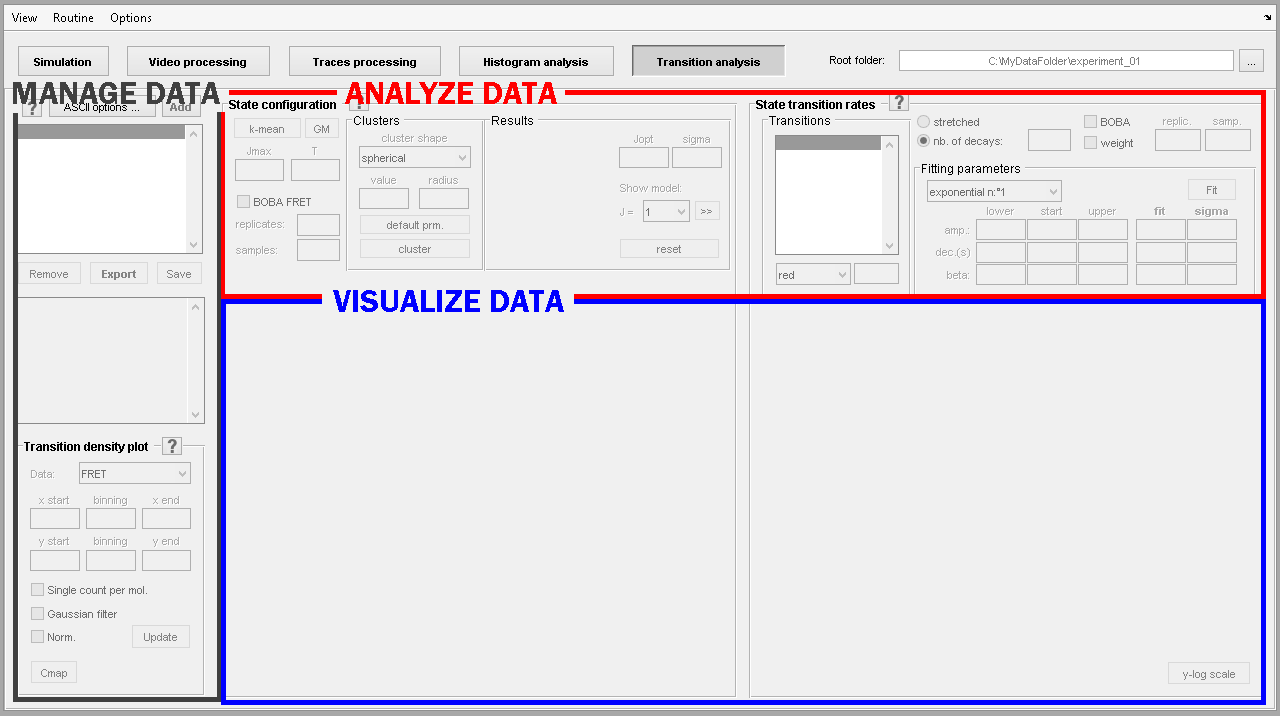
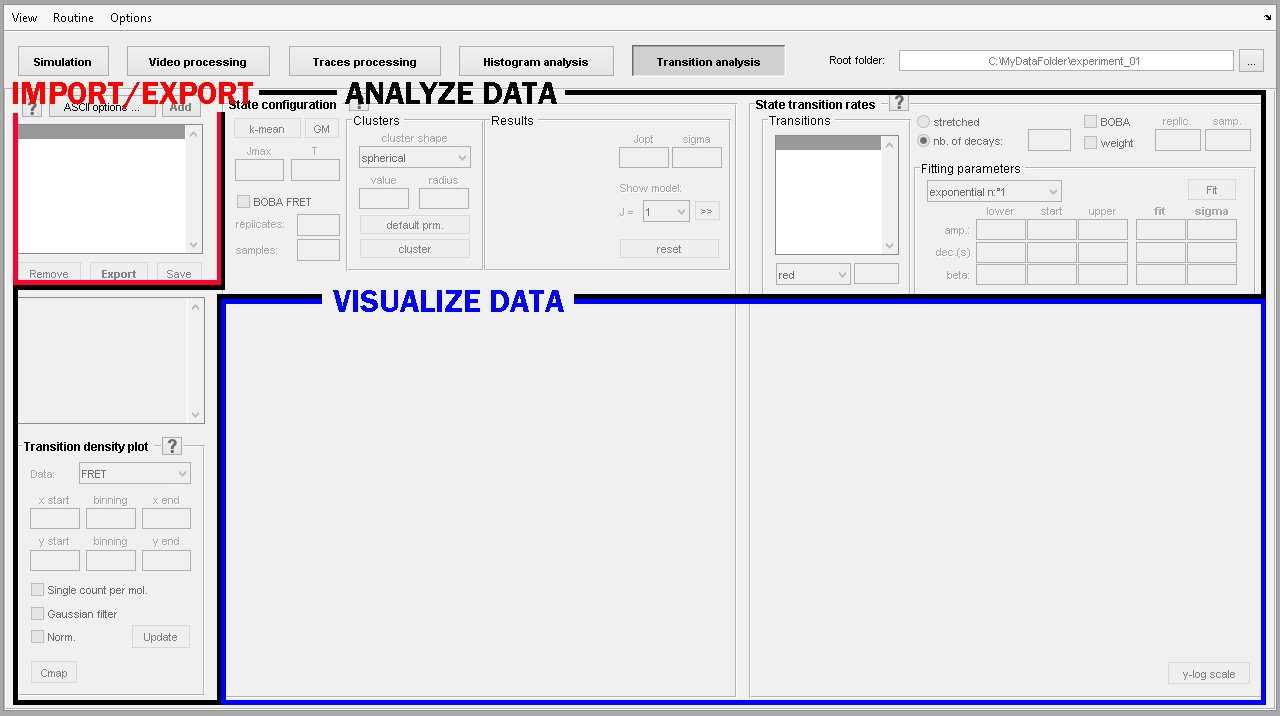
Update all modules' Interface

Changed region(s): [[0.0, 0.0922, 1.0, 0.9832]]

diff --git a/docs/video-processing/interface.md b/docs/video-processing/interface.md
@@ -8,15 +8,17 @@ nav_order: 1
 # Video processing interface
 {: .no_toc }
 
-The module Video processing is the second component of the software MASH-FRET and can be selected in the main 
+Video processing is the second module of MASH-FRET and is accessed by pressing 
+![Video processing](../assets/images/gui/VP-but-video-processing.png "Video processing") in the main 
 [tool bar](../Getting_started.html#interface).
 
-The interface can be divided into three subunits that respectively allow to:
-* <u>visualize</u> imported video data
-* <u>process</u> the imported data
-* <u>export</u> the calculated intensity data
+The interface can be divided into four subunits that respectively allow to:
+* <u>import</u> video data
+* <u>process</u> video data
+* <u>visualize</u> video processing
+* <u>export</u> intensity-time traces
 
-<a href="../assets/images/gui/interface-video-processing.png"><img src="../assets/images/gui/interface-video-processing.png" /></a>
+<a class="plain" href="../assets/images/gui/interface-video-processing.png"><img src="../assets/images/gui/interface-video-processing.png" /></a>
 
 Learn about individual components of the interface in the 
 [Panels](panels.html) section.

diff --git a/docs/histogram-analysis/interface.md b/docs/histogram-analysis/interface.md
@@ -8,16 +8,17 @@ nav_order: 1
 # Histogram analysis interface
 {: .no_toc }
 
-The module Histogram analysis is the fourth component of the software MASH-FRET and can be selected in the main 
+Histogram analysis is the fourth module of MASH-FRET and is accessed by pressing 
+![Histogram analysis](../assets/images/gui/HA-but-histogram-analysis.png "Histogram analysis") in the main 
 [tool bar](../Getting_started.html#interface).
 
 The interface can be divided into three subunits that respectively allow to:
-* <u>browse and process</u> imported data
-* <u>analyze</u> the imported data
-* <u>visualize</u> the calculated data
+* <u>import</u> and <u>export</u> data
+* <u>analyze</u> histograms
+* <u>visualize</u> histogram analysis
 
-<a href="../assets/images/gui/interface-histogram-analysis.png"><img src="../assets/images/gui/interface-histogram-analysis.png" /></a>
+<a class="plain" href="../assets/images/gui/interface-histogram-analysis.png"><img src="../assets/images/gui/interface-histogram-analysis.png" /></a>
 
-Learn about individual components of the interface in the  
+Learn about individual components of the interface in the 
 [Panels](panels.html) section.
 

diff --git a/docs/trace-processing/interface.md b/docs/trace-processing/interface.md
@@ -8,15 +8,16 @@ nav_order: 1
 # Trace processing interface
 {: .no_toc }
 
-The module Trace processing is the third component of the software MASH-FRET and can be selected in the main 
+Trace processing is the third module of MASH-FRET and is accessed by pressing 
+![Trace processing](../assets/images/gui/TP-but-trace-processing.png "Trace processing") in the main 
 [tool bar](../Getting_started.html#interface).
 
-The interface can be divided into several subunits that respectively allow to:
-* <u>manage</u> project and sample data
-* <u>process</u> intensity data
-* <u>visualize</u> processed and calculated data
+The interface can be divided into three subunits that respectively allow to:
+* <u>import</u> and <u>export</u> data
+* <u>process</u> time traces
+* <u>visualize</u> trace processing
 
-<a href="../assets/images/gui/interface-trace-processing.png"><img src="../assets/images/gui/interface-trace-processing.png"/></a>
+<a class="plain" href="../assets/images/gui/interface-trace-processing.png"><img src="../assets/images/gui/interface-trace-processing.png"/></a>
 
 Learn about individual components of the interface in the 
 [Panels](panels.html) section.

diff --git a/docs/transition-analysis/interface.md b/docs/transition-analysis/interface.md
@@ -8,15 +8,16 @@ nav_order: 1
 # Transition analysis interface
 {: .no_toc }
 
-The module Transition analysis is the fifth and last component of the software MASH-FRET and can be selected in the main 
+Transition analysis is the fifth module of MASH-FRET and is accessed by pressing 
+![Transition analysis](../assets/images/gui/TA-but-transition-analysis.png "Transition analysis") in the main 
 [tool bar](../Getting_started.html#interface).
 
 The interface can be divided into three subunits that respectively allow to:
-* <u>browse and process</u> imported data
-* <u>analyze</u> transition data
-* <u>visualize</u> the calculated data
+* <u>import</u> and <u>export</u> data
+* <u>analyze</u> state transitions
+* <u>visualize</u> transition analysis
 
-<a href="../assets/images/gui/interface-transition-analysis.png"><img src="../assets/images/gui/interface-transition-analysis.png" /></a>
+<a class="plain" href="../assets/images/gui/interface-transition-analysis.png"><img src="../assets/images/gui/interface-transition-analysis.png" /></a>
 
 Learn about individual components of the interface in the 
 [Panels](panels.html) section.

diff --git a/docs/simulation/interface.md b/docs/simulation/interface.md
@@ -8,15 +8,16 @@ nav_order: 1
 # Simulation interface
 {: .no_toc }
 
-The module Simulation is the first component of the software MASH-FRET and can be selected in the main 
+Simulation is the first module of MASH-FRET and is accessed by pressing 
+![Simulation](../assets/images/gui/sim-but-simulation.png "Simulation") in the main 
 [tool bar](../Getting_started.html#interface).
 
 The interface is divided into three subunits that respectively allow to:
 * <u>generate</u> data
-* <u>visualize</u> the generated data
-* <u>export</u> the generated data
+* <u>visualize</u> generated data
+* <u>export</u> generated data
 
-<a href="../assets/images/gui/interface-simulation.png"><img src="../assets/images/gui/interface-simulation.png" /></a>
+<a class="plain" href="../assets/images/gui/interface-simulation.png"><img src="../assets/images/gui/interface-simulation.png" /></a>
 
 Learn about individual components of the interface in the 
 [Panels](panels.html) section.
